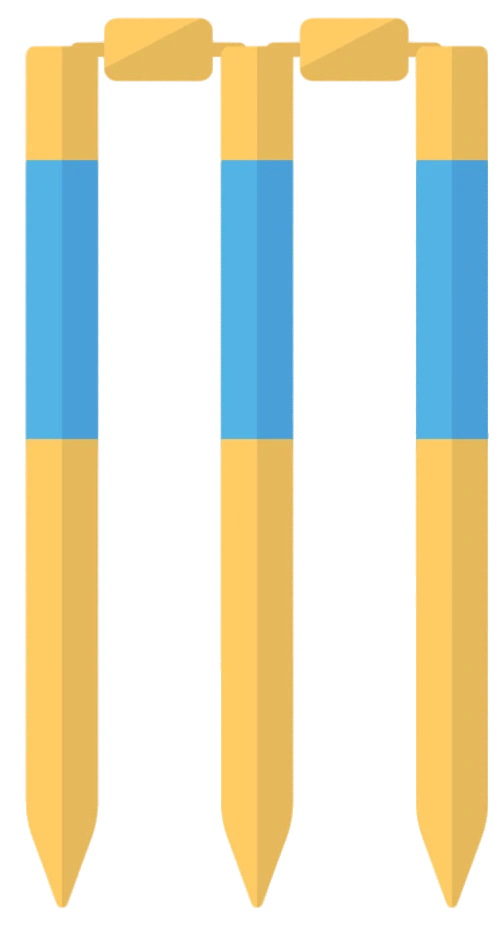
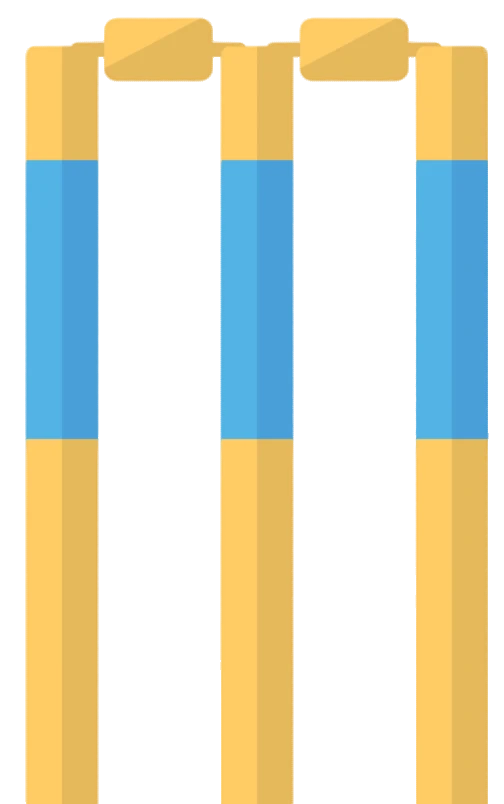
Update Wicket image and add cache buster

diff --git a/index.html b/index.html
@@ -4463,7 +4463,7 @@ document.addEventListener('DOMContentLoaded', () => {
 
                 renderCanvas(true);
             });
-        </script></div><div class="mf1-finish-line-texture" inert=""></div><div class="mf1-finish-line-car" id="finish-line-car" style="transform: translate(-50%, calc(0.45 * (100vw - min(60vw, 80vh)))) scale(0.615); transform-origin: 50% 0%;"><img alt="" class="mf1-car-main" id="car-main" loading="lazy" sizes="100vw" src="Branding_stuff/cricket_ball.png"/><img alt="" class="mf1-car-speed" id="car-speed-forward" loading="lazy" sizes="100vw" src="Branding_stuff/cricket_ball.png" style="opacity: 0; display: none;"/><img alt="" class="mf1-car-speed" id="car-speed-reverse" loading="lazy" sizes="100vw" src="Branding_stuff/cricket_ball.png" style="opacity: 0; display: none;"/></div></div></section><div class="mf1-conclusion"><div class="mf1-footer-texture" inert=""></div><section class="mf1-finish-line-conclusion-section"><div class="mf1-conclusion-container" style="max-width: 100%;"><div class="mf1-conclusion-content" id="w-node-cb2fc037-d0cb-4d7e-781d-6b4e542584f0-f9f398e2" style="display: flex; flex-direction: row; align-items: center; justify-content: center; gap: 80px; width: 100%;"><img alt="Amritsar Soormas" loading="lazy" src="Branding_stuff/Logo.png?v=2" style="height: 150px; width: auto;"/><img alt="Wicket" class="mf1-conclusion-logo-lockup" loading="lazy" src="Branding_stuff/Wicket.png" style="height: 300px; width: auto;"/><img alt="Sher E Punjab" loading="lazy" src="Branding_stuff/Sher E Punjab Logo.png?v=2" style="height: 150px; width: auto;"/></div></div></section><footer class="mf1-footer"><div class="mf1-footer-content"><a class="mf1-footer-link" data-wf-ao-click-engagement-pitching="true" data-wf-element-id="cb2fc037-d0cb-4d7e-781d-6b4e54258501" data-wf-native-id-path="cb2fc037-d0cb-4d7e-781d-6b4e54258501" href="https://www.dropbox.com/terms" target="_blank">Dropbox Terms of Service</a><a class="mf1-footer-link" data-wf-ao-click-engagement-pitching="true" data-wf-element-id="cb2fc037-d0cb-4d7e-781d-6b4e54258503" data-wf-native-id-path="cb2fc037-d0cb-4d7e-781d-6b4e54258503" href="https://www.dropbox.com/privacy" target="_blank">Dropbox Privacy Policy</a><a class="mf1-footer-link" data-wf-ao-click-engagement-pitching="true" data-wf-element-id="cb2fc037-d0cb-4d7e-781d-6b4e54258505" data-wf-native-id-path="cb2fc037-d0cb-4d7e-781d-6b4e54258505" href="https://www.dropbox.com/de/lp/about/impressum" target="_blank">Impressum</a><a class="mf1-footer-link" data-wf-ao-click-engagement-pitching="true" data-wf-element-id="cb2fc037-d0cb-4d7e-781d-6b4e54258507" data-wf-native-id-path="cb2fc037-d0cb-4d7e-781d-6b4e54258507" href="https://assets.dropbox.com/warp/en-us/modern-slavery/Dropbox_Modern_Slavery_Statement.pdf" target="_blank">Modern Slavery Statement</a><a class="mf1-footer-link" data-wf-ao-click-engagement-pitching="true" data-wf-element-id="cb2fc037-d0cb-4d7e-781d-6b4e54258509" data-wf-native-id-path="cb2fc037-d0cb-4d7e-781d-6b4e54258509" href="http://www.dropbox.com/support/de-cancel-contract" target="_blank">Cancel Contract</a><a class="mf1-footer-link" data-wf-ao-click-engagement-pitching="true" data-wf-element-id="cb2fc037-d0cb-4d7e-781d-6b4e5425850b" data-wf-native-id-path="cb2fc037-d0cb-4d7e-781d-6b4e5425850b" href="#manage-cookies">Cookies &amp; CCPA preferences</a></div><div class="w-embed"><style>
+        </script></div><div class="mf1-finish-line-texture" inert=""></div><div class="mf1-finish-line-car" id="finish-line-car" style="transform: translate(-50%, calc(0.45 * (100vw - min(60vw, 80vh)))) scale(0.615); transform-origin: 50% 0%;"><img alt="" class="mf1-car-main" id="car-main" loading="lazy" sizes="100vw" src="Branding_stuff/cricket_ball.png"/><img alt="" class="mf1-car-speed" id="car-speed-forward" loading="lazy" sizes="100vw" src="Branding_stuff/cricket_ball.png" style="opacity: 0; display: none;"/><img alt="" class="mf1-car-speed" id="car-speed-reverse" loading="lazy" sizes="100vw" src="Branding_stuff/cricket_ball.png" style="opacity: 0; display: none;"/></div></div></section><div class="mf1-conclusion"><div class="mf1-footer-texture" inert=""></div><section class="mf1-finish-line-conclusion-section"><div class="mf1-conclusion-container" style="max-width: 100%;"><div class="mf1-conclusion-content" id="w-node-cb2fc037-d0cb-4d7e-781d-6b4e542584f0-f9f398e2" style="display: flex; flex-direction: row; align-items: center; justify-content: center; gap: 80px; width: 100%;"><img alt="Amritsar Soormas" loading="lazy" src="Branding_stuff/Logo.png?v=2" style="height: 150px; width: auto;"/><img alt="Wicket" class="mf1-conclusion-logo-lockup" loading="lazy" src="Branding_stuff/Wicket.png?v=2" style="height: 300px; width: auto;"/><img alt="Sher E Punjab" loading="lazy" src="Branding_stuff/Sher E Punjab Logo.png?v=2" style="height: 150px; width: auto;"/></div></div></section><footer class="mf1-footer"><div class="mf1-footer-content"><a class="mf1-footer-link" data-wf-ao-click-engagement-pitching="true" data-wf-element-id="cb2fc037-d0cb-4d7e-781d-6b4e54258501" data-wf-native-id-path="cb2fc037-d0cb-4d7e-781d-6b4e54258501" href="https://www.dropbox.com/terms" target="_blank">Dropbox Terms of Service</a><a class="mf1-footer-link" data-wf-ao-click-engagement-pitching="true" data-wf-element-id="cb2fc037-d0cb-4d7e-781d-6b4e54258503" data-wf-native-id-path="cb2fc037-d0cb-4d7e-781d-6b4e54258503" href="https://www.dropbox.com/privacy" target="_blank">Dropbox Privacy Policy</a><a class="mf1-footer-link" data-wf-ao-click-engagement-pitching="true" data-wf-element-id="cb2fc037-d0cb-4d7e-781d-6b4e54258505" data-wf-native-id-path="cb2fc037-d0cb-4d7e-781d-6b4e54258505" href="https://www.dropbox.com/de/lp/about/impressum" target="_blank">Impressum</a><a class="mf1-footer-link" data-wf-ao-click-engagement-pitching="true" data-wf-element-id="cb2fc037-d0cb-4d7e-781d-6b4e54258507" data-wf-native-id-path="cb2fc037-d0cb-4d7e-781d-6b4e54258507" href="https://assets.dropbox.com/warp/en-us/modern-slavery/Dropbox_Modern_Slavery_Statement.pdf" target="_blank">Modern Slavery Statement</a><a class="mf1-footer-link" data-wf-ao-click-engagement-pitching="true" data-wf-element-id="cb2fc037-d0cb-4d7e-781d-6b4e54258509" data-wf-native-id-path="cb2fc037-d0cb-4d7e-781d-6b4e54258509" href="http://www.dropbox.com/support/de-cancel-contract" target="_blank">Cancel Contract</a><a class="mf1-footer-link" data-wf-ao-click-engagement-pitching="true" data-wf-element-id="cb2fc037-d0cb-4d7e-781d-6b4e5425850b" data-wf-native-id-path="cb2fc037-d0cb-4d7e-781d-6b4e5425850b" href="#manage-cookies">Cookies &amp; CCPA preferences</a></div><div class="w-embed"><style>
 
 @media (min-width: 768px) and (max-width: 1280px) {
   .mf1-footer {
